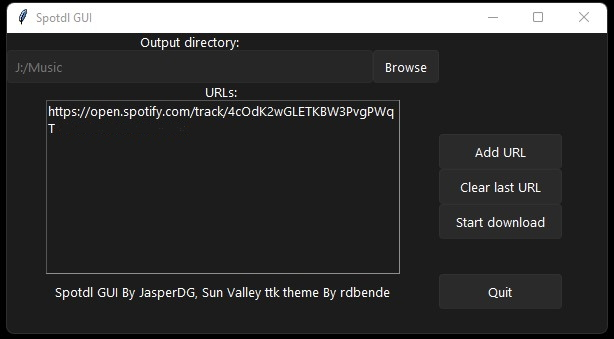
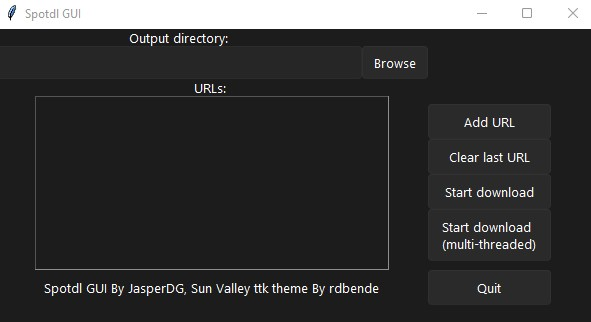
Added multi-threading

diff --git a/main.py b/main.py
@@ -5,6 +5,7 @@ import tkinter
 import os
 import sys
 from git import Repo
+import threading
 def exit():
     sys.exit()
 
@@ -85,14 +86,18 @@ def removeUrl():
     except:
         a=0
 
-def dl():
+def dl(multiThreaded):
     if loc!="" and urls!="":
         global window
         window.destroy()
-        tk.messagebox.showinfo("Spotdl GUI", "You can follow the download progress in the command prompt (the black window).")
+        tk.messagebox.showinfo("Spotdl GUI", "You can follow the download progress in the command prompt (the black window, multithreaded tasks may not look best).")
         urlsArr = urls.split("\n")
-        for url in urlsArr:
-            os.system(f"cd /d \"{loc}\" && spotdl {url}")
+        if multiThreaded:
+            for url in urlsArr:
+                threading.Thread(target=lambda: os.system(f"cd /d \"{loc}\" && spotdl {url}")).start()
+        else:
+            for url in urlsArr:
+                os.system(f"cd /d \"{loc}\" && spotdl {url}")
         exit()
     elif loc=="":
         tkinter.messagebox.showwarning("Spotdl GUI", "Enter a valid path. Use \"browse\" to select a path.")
@@ -107,8 +112,11 @@ addURlBtn.grid(row=1, column=1)
 clearUrl = ttk.Button(text="Clear last URL", command=removeUrl, master=buttonsFrame, width=15, padding=5)
 clearUrl.grid(row=2, column=1)
 
-startDlBtn= ttk.Button(text="Start download", command=dl, master=buttonsFrame, width=15, padding=5)
+startDlBtn= ttk.Button(text="Start download", command=lambda: dl(False), master=buttonsFrame, width=15, padding=5)
 startDlBtn.grid(row=3, column=1)
+
+startDLMBtn = ttk.Button(text="Start download\n(multi-threaded)", command=lambda: dl(True), master=buttonsFrame, width=15, padding=5)
+startDLMBtn.grid(row=4, column=1)
 
 buttonsFrame.grid(row=3, column=2)
 

diff --git a/readme.md b/readme.md
@@ -12,5 +12,7 @@ A simple GUI for the [Spotdl](https://github.com/spotDL/spotify-downloader) CLI 
 1. Open `spotdlGUI.exe`
 2. Enter your output directory and music URLs.
 3. Click "Add URL".
+4. Click "Start download" to start downloading the songs
+ (Use the multi-threaded version for faster times, might affect CPU performance)
 
 ![Example](https://github.com/JasperDG828/spotdl-GUI/blob/main/example.jpg?raw=true)
